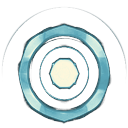
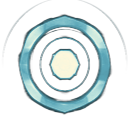
Align all Force circles to energy core

diff --git a/CHANGELOG.md b/CHANGELOG.md
@@ -495,3 +495,12 @@
 - Force field opacity/brightness reduced to stop it covering the ship.
 - Charge release no longer emits the 18-particle light burst.
 - M-charge visual row now matches its 10 missiles.
+
+## 0.8.6 — Align Force circles to core
+
+- Recentered all Force field textures so the bright ring is exactly at (64,64).
+- Outer ring, field texture and energy core now share one anchor.
+- Removed field rotation and centered the field on the ship.
+- Moved the Force field beneath the ship layer with reduced brightness/opacity.
+- Removed the charge-release particle burst.
+- Menu info now defaults to the bottom placement.
